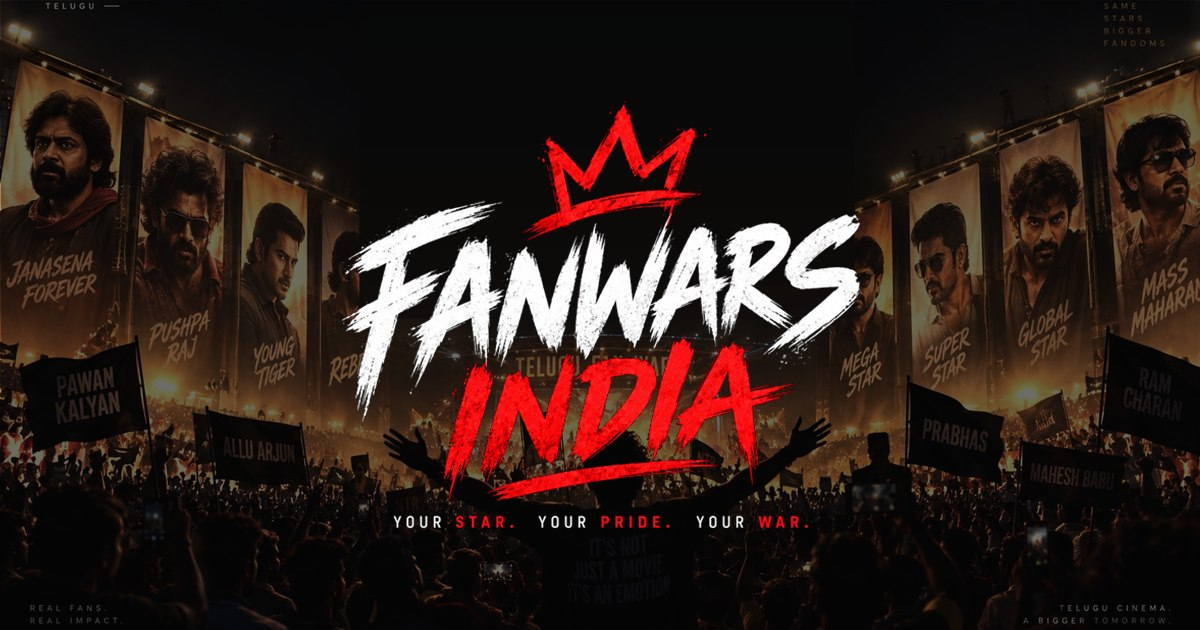
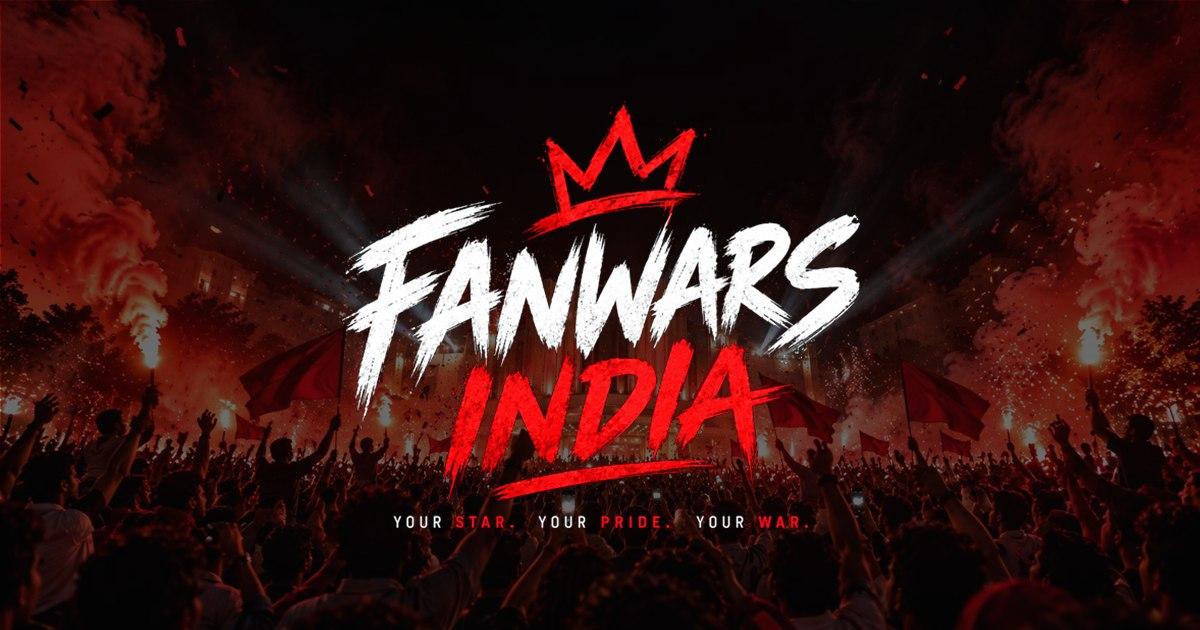
New mobile/desktop hero, keep test payments off the live site
Phones get a tall hero and laptops a wide one via <picture>; both are
crowd-only (the old hero's banners had AI star lookalikes). Sandbox
payments are tagged is_test and hidden from fanwarsindia.com, the server
refuses sandbox payments from the live domain, and the live Support
button shows "opens very soon" until the launch switch is flipped.

diff --git a/index.html b/index.html
@@ -47,7 +47,7 @@
   };
 </script>
 
-<link rel="stylesheet" href="css/styles.css?v=14" />
+<link rel="stylesheet" href="css/styles.css?v=16" />
 <link rel="icon" href="assets/logo/crown-mark.png" type="image/png" />
 </head>
 <body class="font-body bg-fwblack text-fwwhite">
@@ -69,11 +69,16 @@
 <main id="top">
   <!-- HERO -->
   <section class="relative px-4 pt-3 sm:pt-4 pb-16 text-center overflow-hidden min-h-[560px] sm:min-h-[700px] flex items-start">
-    <img
-      src="assets/hero/hero-bg.jpg"
-      alt=""
-      class="absolute inset-0 z-0 w-full h-full object-cover object-[center_28%]"
-    />
+    <!-- Tall image for phones, wide for tablets/laptops; each device downloads only its own. -->
+    <picture>
+      <source media="(max-width: 767px)" srcset="assets/hero/hero-mobile.jpg" />
+      <img
+        src="assets/hero/hero-desktop.jpg"
+        alt=""
+        fetchpriority="high"
+        class="absolute inset-0 z-0 w-full h-full object-cover object-[center_40%] max-md:object-bottom"
+      />
+    </picture>
     <div class="absolute inset-0 hero-scrim"></div>
     <div class="hero-glow"></div>
     <div class="relative z-10 max-w-2xl mx-auto">
@@ -161,14 +166,14 @@
 <!-- SUPPORT FLOW MODAL ROOT -->
 <div id="modal-root"></div>
 
-<script src="js/config.js?v=14"></script>
-<script src="js/icons.js?v=14"></script>
-<script src="js/actors.js?v=14"></script>
-<script src="js/fanLevel.js?v=14"></script>
-<script src="js/store.js?v=14"></script>
-<script src="js/render.js?v=14"></script>
-<script src="js/fan-card.js?v=14"></script>
-<script src="js/support-flow.js?v=14"></script>
-<script src="js/main.js?v=14"></script>
+<script src="js/config.js?v=16"></script>
+<script src="js/icons.js?v=16"></script>
+<script src="js/actors.js?v=16"></script>
+<script src="js/fanLevel.js?v=16"></script>
+<script src="js/store.js?v=16"></script>
+<script src="js/render.js?v=16"></script>
+<script src="js/fan-card.js?v=16"></script>
+<script src="js/support-flow.js?v=16"></script>
+<script src="js/main.js?v=16"></script>
 </body>
 </html>

diff --git a/js/support-flow.js b/js/support-flow.js
@@ -70,6 +70,10 @@ const SupportFlow = (function () {
     if (!actor) return;
     flow = { ...blankFlow(), open: true, actor };
     document.body.style.overflow = "hidden";
+    if (!FW_CONFIG.paymentsOpen) {
+      goTo("soon");
+      return;
+    }
     render();
     prepareForPayment();
   }
@@ -337,6 +341,21 @@ const SupportFlow = (function () {
     `);
   }
 
+  function soonStepHTML() {
+    const a = flow.actor;
+    return shell(`
+      <div class="p-6 pb-8 text-center">
+        <div class="flex justify-end mb-1">${closeBtnHTML()}</div>
+        <img src="${a.image}" alt="${a.name}" class="w-24 h-28 mx-auto rounded-lg object-cover border-2 border-fwred/60 mb-4" />
+        <p class="text-white/50 text-xs uppercase tracking-[0.2em]">Get ready to back</p>
+        <p class="font-display uppercase text-2xl text-fwred leading-tight mt-1">${actorTitle(a)}</p>
+        <p class="font-display uppercase text-xl mt-5">Support opens very soon</p>
+        <p class="text-white/60 text-sm mt-2 leading-relaxed">We're switching on secure payments with our payment partner. Check back shortly — the war starts at zero, and the first fans in lead the board.</p>
+        <button id="done-btn" class="fire-btn tap-active w-full rounded-md py-4 mt-6 font-display uppercase text-lg">Got it</button>
+      </div>
+    `);
+  }
+
   function failedStepHTML() {
     const canRetry = !!flow.actor && !!flow.amount;
     return shell(`
@@ -450,6 +469,7 @@ const SupportFlow = (function () {
             : "Hold tight — don't close this page."
         ),
       verifying: () => busyStepHTML("Confirming your payment", "Checking with the bank. This takes a few seconds."),
+      soon: soonStepHTML,
       failed: failedStepHTML,
       processing: processingStepHTML,
       success: successStepHTML,

diff --git a/js/config.js b/js/config.js
@@ -4,8 +4,21 @@
  * functions and the create-order / order-status edge functions. The contributions table
  * (with phone numbers) is not readable with it — row-level security blocks it.
  */
-const FW_CONFIG = {
-  supabaseUrl: "https://cntrkcpwetjjifubccha.supabase.co",
-  supabaseAnonKey:
-    "eyJhbGciOiJIUzI1NiIsInR5cCI6IkpXVCJ9.eyJpc3MiOiJzdXBhYmFzZSIsInJlZiI6ImNudHJrY3B3ZXRqamlmdWJjY2hhIiwicm9sZSI6ImFub24iLCJpYXQiOjE3OTAwNTE4NjAsImV4cCI6MjEwNTYyNzg2MH0.1ngeRwbUZxZrZ7fy8gCnAbNy4i2Sn_WbxjlK5gZCVj8",
-};
+const FW_CONFIG = (function () {
+  const isProductionSite = ["www.fanwarsindia.com", "fanwarsindia.com"].includes(location.hostname);
+
+  // LAUNCH SWITCH — set to true on go-live day (see GO-LIVE.md). Until then fanwarsindia.com shows
+  // "payments open very soon" (the server also refuses test-mode payments from the live domain).
+  // Preview links and localhost always allow (test-mode) payments.
+  const paymentsOpenOnProduction = false;
+
+  return {
+    supabaseUrl: "https://cntrkcpwetjjifubccha.supabase.co",
+    supabaseAnonKey:
+      "eyJhbGciOiJIUzI1NiIsInR5cCI6IkpXVCJ9.eyJpc3MiOiJzdXBhYmFzZSIsInJlZiI6ImNudHJrY3B3ZXRqamlmdWJjY2hhIiwicm9sZSI6ImFub24iLCJpYXQiOjE3OTAwNTE4NjAsImV4cCI6MjEwNTYyNzg2MH0.1ngeRwbUZxZrZ7fy8gCnAbNy4i2Sn_WbxjlK5gZCVj8",
+    isProductionSite,
+    paymentsOpen: !isProductionSite || paymentsOpenOnProduction,
+    // Test-card payments are visible on preview/localhost for testing, never on the live site.
+    showTestData: !isProductionSite,
+  };
+})();

diff --git a/supabase/functions/create-order/index.ts b/supabase/functions/create-order/index.ts
@@ -1,7 +1,15 @@
 // POST { actor_id, amount, name, phone } -> { order_id, payment_session_id, environment }
 // Creates a pending contribution and a Cashfree order for it. Nothing is credited here —
 // that only happens in syncOrder() once Cashfree reports the order as PAID.
-import { cashfreeConfig, cashfreeHeaders, corsHeaders, db, json, returnBaseFor } from "../_shared/common.ts";
+import {
+  cashfreeConfig,
+  cashfreeHeaders,
+  corsHeaders,
+  db,
+  isProductionSite,
+  json,
+  returnBaseFor,
+} from "../_shared/common.ts";
 
 const MIN_AMOUNT = 1;
 const MAX_AMOUNT = 100000;
@@ -45,6 +53,10 @@ Deno.serve(async (req) => {
 
   const cf = cashfreeConfig();
   if (!cf) return json(req, { error: "payments_not_configured" }, 503);
+  // Until live keys are in (CASHFREE_ENV=production), fanwarsindia.com itself can't take test-card payments.
+  if (cf.env === "sandbox" && isProductionSite(req.headers.get("origin") ?? "")) {
+    return json(req, { error: "payments_not_configured" }, 503);
+  }
 
   let body: Record<string, unknown>;
   try {
@@ -104,6 +116,7 @@ Deno.serve(async (req) => {
     cashfree_order_id: orderId,
     card_token: cardToken,
     client_ip_hash: clientIpHash,
+    is_test: cf.env === "sandbox", // hidden from the live site's leaderboards
     status: "pending",
   });
   if (insErr) {

diff --git a/css/styles.css b/css/styles.css
@@ -60,17 +60,18 @@ svg[viewBox="0 0 24 24"] {
     radial-gradient(ellipse 80% 60% at 50% 100%, rgba(176, 0, 0, 0.14), transparent 70%);
 }
 
-/* Dark scrim over the hero background photo so overlaid text stays legible */
+/* Scrim over the hero photo. The hero images are shot with a dark sky already, so this only
+   steadies the headline area and fades the bottom into the page background. */
 .hero-scrim {
   z-index: 1;
   pointer-events: none;
   background: linear-gradient(
     to bottom,
-    rgba(5, 5, 5, 0.78) 0%,
-    rgba(5, 5, 5, 0.66) 38%,
-    rgba(5, 5, 5, 0.4) 60%,
-    rgba(5, 5, 5, 0.16) 78%,
-    rgba(5, 5, 5, 0.4) 100%
+    rgba(5, 5, 5, 0.3) 0%,
+    rgba(5, 5, 5, 0.22) 35%,
+    rgba(5, 5, 5, 0.3) 60%,
+    rgba(5, 5, 5, 0.12) 80%,
+    rgba(5, 5, 5, 0.75) 100%
   );
 }
 

diff --git a/supabase/functions/_shared/common.ts b/supabase/functions/_shared/common.ts
@@ -13,6 +13,11 @@ const ALLOWED_ORIGINS = [
 // Vercel preview deployments of THIS project only (team slug shab5), e.g. fanwarsindia-git-payments-shab5.vercel.app
 const PREVIEW_ORIGIN = /^https:\/\/fanwarsindia(-[a-z0-9-]+)?-shab5\.vercel\.app$/;
 
+/** The public site. Sandbox (test-card) payments are refused from here so they can't reach real fans. */
+export function isProductionSite(origin: string): boolean {
+  return origin === "https://www.fanwarsindia.com" || origin === "https://fanwarsindia.com";
+}
+
 export function isAllowedOrigin(origin: string): boolean {
   return ALLOWED_ORIGINS.includes(origin) || PREVIEW_ORIGIN.test(origin);
 }

diff --git a/js/store.js b/js/store.js
@@ -52,10 +52,11 @@ const Store = (function () {
 
   async function load() {
     try {
+      const includeTest = FW_CONFIG.showTestData;
       const [board, activity, fans] = await Promise.all([
-        rpc("public_leaderboard"),
-        rpc("public_activity"),
-        rpc("public_top_fans", { p_limit: 20 }),
+        rpc("public_leaderboard", { p_include_test: includeTest }),
+        rpc("public_activity", { p_include_test: includeTest }),
+        rpc("public_top_fans", { p_limit: 20, p_include_test: includeTest }),
       ]);
       const byId = new Map(board.map((r) => [Number(r.id), r]));
       state.actors = ACTORS.map((a) => {

diff --git a/contact.html b/contact.html
@@ -17,7 +17,7 @@
     fontFamily: { display: ["Anton", "Arial Black", "sans-serif"], name: ["Oswald", "Anton", "sans-serif"], body: ["Barlow", "Inter", "sans-serif"] },
   } } };
 </script>
-<link rel="stylesheet" href="css/styles.css?v=14" />
+<link rel="stylesheet" href="css/styles.css?v=16" />
 <link rel="icon" href="assets/logo/crown-mark.png" type="image/png" />
 </head>
 <body class="font-body bg-fwblack text-fwwhite">

diff --git a/privacy.html b/privacy.html
@@ -17,7 +17,7 @@
     fontFamily: { display: ["Anton", "Arial Black", "sans-serif"], name: ["Oswald", "Anton", "sans-serif"], body: ["Barlow", "Inter", "sans-serif"] },
   } } };
 </script>
-<link rel="stylesheet" href="css/styles.css?v=14" />
+<link rel="stylesheet" href="css/styles.css?v=16" />
 <link rel="icon" href="assets/logo/crown-mark.png" type="image/png" />
 </head>
 <body class="font-body bg-fwblack text-fwwhite">

diff --git a/refund.html b/refund.html
@@ -17,7 +17,7 @@
     fontFamily: { display: ["Anton", "Arial Black", "sans-serif"], name: ["Oswald", "Anton", "sans-serif"], body: ["Barlow", "Inter", "sans-serif"] },
   } } };
 </script>
-<link rel="stylesheet" href="css/styles.css?v=14" />
+<link rel="stylesheet" href="css/styles.css?v=16" />
 <link rel="icon" href="assets/logo/crown-mark.png" type="image/png" />
 </head>
 <body class="font-body bg-fwblack text-fwwhite">

diff --git a/terms.html b/terms.html
@@ -17,7 +17,7 @@
     fontFamily: { display: ["Anton", "Arial Black", "sans-serif"], name: ["Oswald", "Anton", "sans-serif"], body: ["Barlow", "Inter", "sans-serif"] },
   } } };
 </script>
-<link rel="stylesheet" href="css/styles.css?v=14" />
+<link rel="stylesheet" href="css/styles.css?v=16" />
 <link rel="icon" href="assets/logo/crown-mark.png" type="image/png" />
 </head>
 <body class="font-body bg-fwblack text-fwwhite">

diff --git a/supabase/functions/order-status/index.ts b/supabase/functions/order-status/index.ts
@@ -39,7 +39,7 @@ Deno.serve(async (req) => {
   if (row.status !== "success") return json(req, base);
 
   const [{ data: board }, { data: mine }] = await Promise.all([
-    supabase.rpc("public_leaderboard"),
+    supabase.rpc("public_leaderboard", { p_include_test: row.is_test }), // rank among the same kind of payments
     supabase
       .from("contributions")
       .select("amount")
